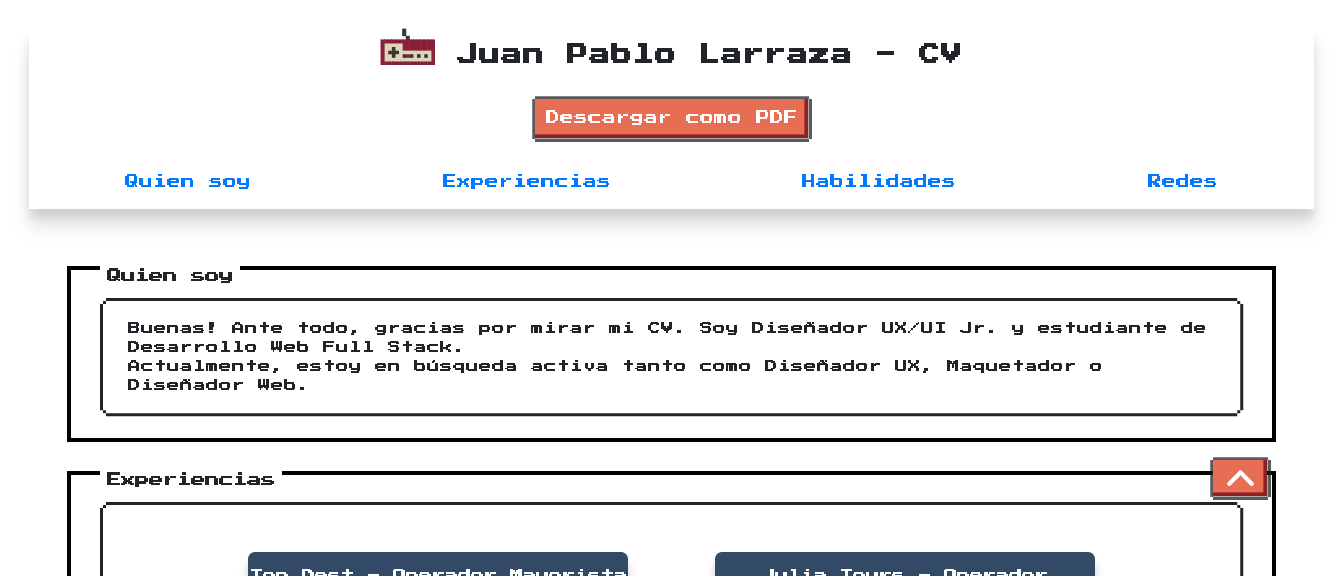
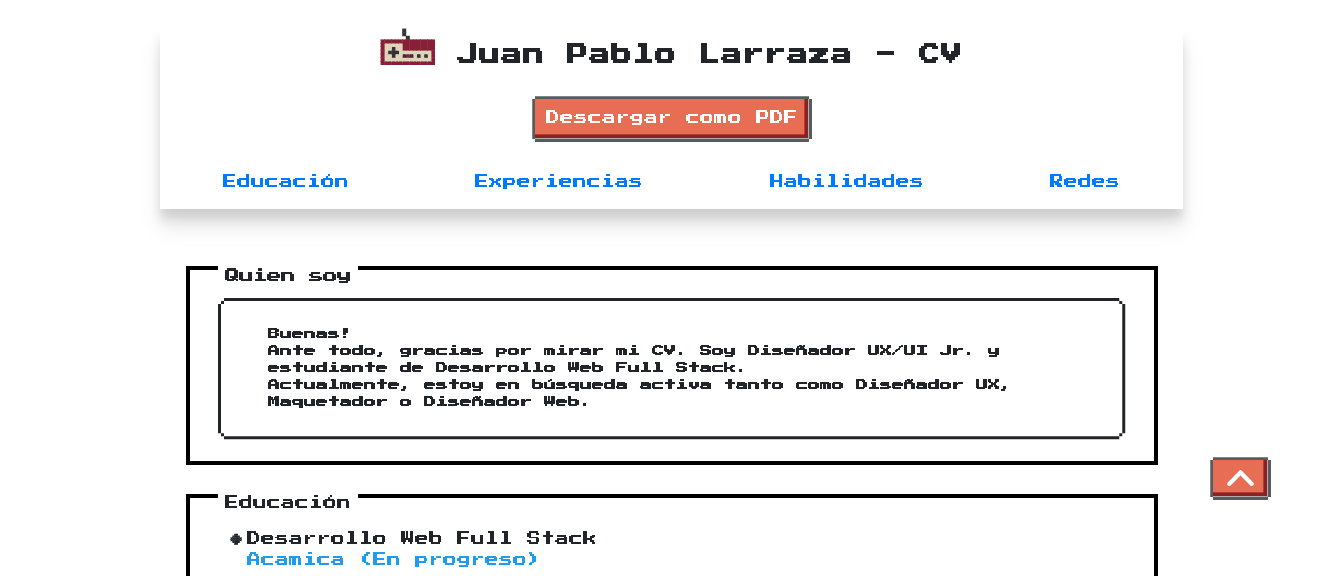
Agregue Logros y mejore mobile

diff --git a/index.html b/index.html
@@ -111,23 +111,28 @@
         <div class="primeraParte">
             <h2>Proyectos</h2>
             <p>Algunos de mis trabajos en web</p>
-            <i class="nes-icon is-medium star"></i>
-            <i class="nes-icon is-medium star"></i>
-            <i class="nes-icon is-medium star"></i>
-            <i class="nes-icon is-medium star"></i>
-            <i class="nes-icon is-medium star"></i>
+            <i class="nes-icon is-medium star" id="medium"></i>
+            <i class="nes-icon is-medium star" id="medium"></i>
+            <i class="nes-icon is-medium star" id="medium"></i>
+            <i class="nes-icon is-medium star" id="medium"></i>
+            <i class="nes-icon is-medium star" id="medium"></i>
+            <i class="nes-icon is-small star" id="small"></i>
+            <i class="nes-icon is-small star" id="small"></i>
+            <i class="nes-icon is-small star" id="small"></i>
+            <i class="nes-icon is-small star" id="small"></i>
+            <i class="nes-icon is-small star" id="small"></i>
         </div>
         <section class="nes-container is-dark member-card is-centered" id="proyecto-container">
             <div class="card-project">
                 <h3>{ Viajando Siempre }</h3>
-                <p>Sitio web sobre turismo e información de viajes luego de la COVID-19</p>
+                <p>Sitio web sobre turismo, utilice HTML - CSS (responsive) </p>
                 <img src="./img/Viajando_Siempre.png" target="_blank" alt="imagen web">
                 <a class="nes-btn is-primary" href="https://viajandosiempre.netlify.app" target="_blank">Ir al Sitio</a>
             </div>
 
             <div class="card-project">
                 <h3>{ Verycheck }</h3>
-                <p>Landing page, Verycheck es un verificador de informacion.</p>
+                <p>Landing page, utilice HTML - CSS - JS, obtengo los mails de los usuarios (responsive)</p>
                 <img src="./img/Verycheck-landing.png" target="_blank" alt="imagen podcast">
                 <a class="nes-btn is-primary" href="verycheck.netlify.app" target="_blank">Ir al Sitio</a>
 
@@ -153,10 +158,23 @@
         </section>
     </section>
 
+    <section class="Logros">
+        <h2>Bonus Track!</h2>
+        <div class="nes-container with-title is-centered logros">
+            <span class="title" id="titulo-bonus">Logros</span>
+            <i class="nes-icon trophy is-large"></i>
+            <h3>Colabore en el proyecto: <span style="color: #96d293; font-weight: 700;">Teloregalo</span>, tanto en UX
+                como en la
+                maquetacion del sitio</h3>
+            <a class="nes-btn is-warning" style="color: #000000;" href="http://teloregalo.com.ar/" target="_blank">Ir al
+                Sitio</a>
+        </div>
+    </section>
+
     <section class="nes-container is-dark" id="Habilidades">
         <section class="message-list">
             <section class="message -left" id="mensaje-izq">
-                <i class="nes-bcrikko"></i>
+                <i class="nes-bcrikko is-small"></i>
                 <!-- Balloon -->
                 <div class="nes-balloon from-left is-dark">
                     <p id="presentacion">Hola Juan Pablo! <br> ¿Puedes contarnos tus habilidades? </p>

diff --git a/styles.css b/styles.css
@@ -112,11 +112,23 @@ a{
 .Educacion{
     max-width: 90%;
     margin: auto;
-    max-height: 60vh;
+    max-height: 80vh;
 }
+
+1128372102
+
+1150416618
 
 #lista-educacion ul{
     margin-left: 2rem;
+}
+
+#lista-educacion li{
+    font-size: 1.4rem;
+}
+
+#lista-educacion span{
+    font-size: 1.3rem;
 }
 
 /* Seccion Experiencia*/ 
@@ -182,9 +194,17 @@ a{
     margin-bottom: 4rem;
 }
 
+#small{
+    display: none;
+}
+
 .primeraParte{
     text-align: center;
     margin-bottom: 2rem;
+}
+
+.primeraParte h2{
+    font-size: 1.8rem;
 }
 
 #proyecto-container{
@@ -212,11 +232,49 @@ a{
     text-align: center;
 }
 
+/* Seccion Logros */
+
+.Logros{
+    margin-bottom: 4rem;
+    max-height: 60vh;
+    max-width: 90%;
+    margin: auto;
+}
+ h2{
+    text-align: center;
+    padding: 2rem;
+}
+
+#titulo-bonus{
+    font-size: 1.5rem;
+}
+
+#bonus-container{
+    max-width: 90%;
+    margin: auto;
+    padding: 2rem;
+}
+
+.Logros h3{
+    font-size: 1rem
+}
+
+.Logros span{
+    font-weight: 700;
+}
+
+.Logros a{
+    color: rgb(83, 7, 83);
+    color: white;
+}
+
+
 /* Seccion Habilidades*/
 
 #Habilidades{
     width: 90%;
     margin: auto;
+    margin-top: 4rem;
 }
 
 #mensaje-izq{
@@ -391,6 +449,8 @@ footer{
     top: -0.7rem;
 }
 
+/* Mobile */
+
 
 @media screen and (max-width: 932px){
     html{
@@ -437,6 +497,50 @@ footer{
     #texto{
         font-size: 0.9rem;
         line-height: 2.2;
+    }
+
+    #Educacion span{
+        font-size: 1rem;
+    }
+
+    #lista-educacion ul{
+        margin-left: 3rem;
+    }
+
+    .primeraParte h2{
+        font-size: 2.5rem;
+    }
+
+    .primeraParte p{
+        font-size: 1.2rem;
+    }
+
+    #medium{
+        display: none;
+    }
+
+    #small{
+        display: inline-block;
+    }
+
+    .card-project h3{
+        font-size: 2rem;
+    }
+
+    .card-project p{
+        font-size: 1.25rem;
+    }
+
+    .card-project a{
+        padding: 1rem 2rem;
+    }
+
+    .Logros h2{
+        font-size: 2rem;
+    }
+
+    .Logros h3{
+        padding: 1.5rem;
     }
 
     .habilidades-detalladas h3{
